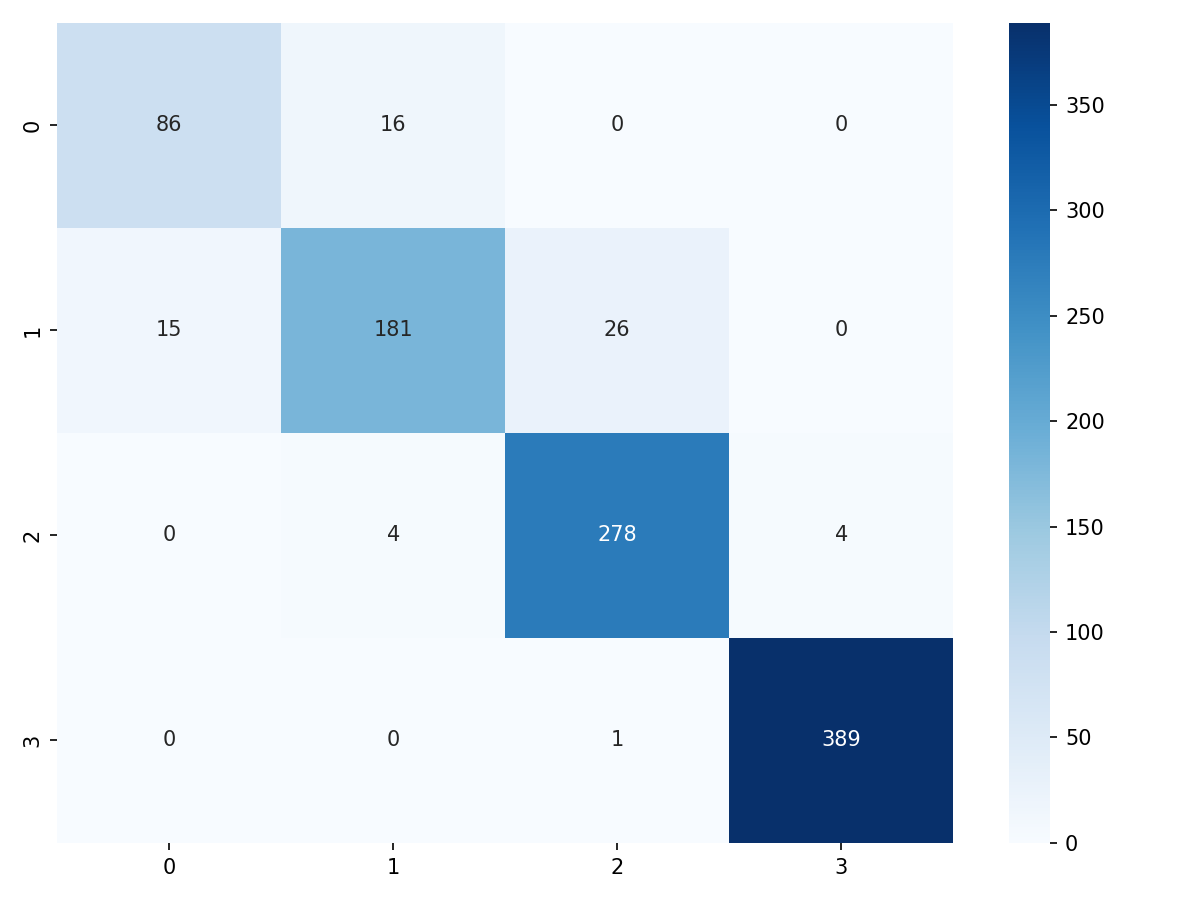
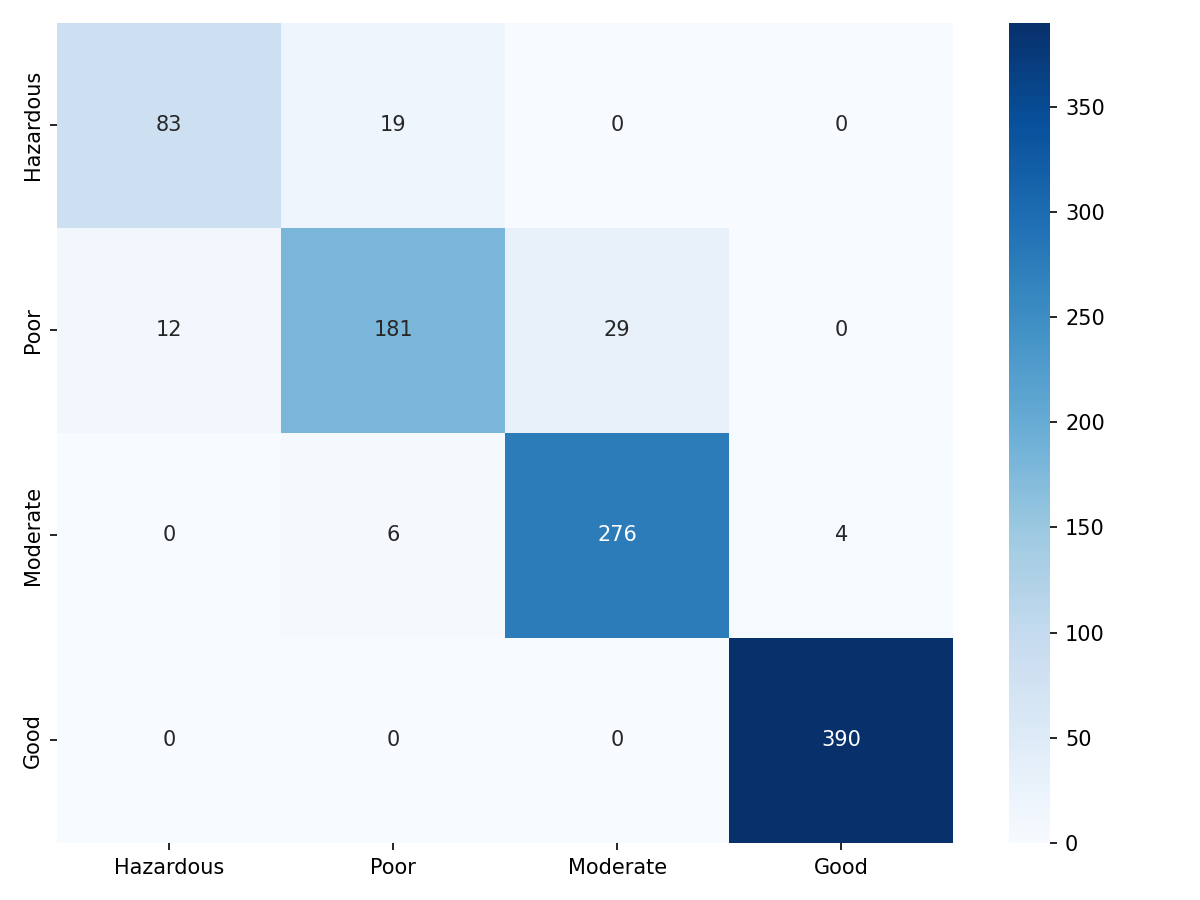
FIX: fixed number of predictors, thus new images and new routine to plot correctly, conf_matrix_plot labels were changed

diff --git a/HW3/lda_routine.py b/HW3/lda_routine.py
@@ -37,7 +37,12 @@ for i in range(3,10):
     #Principal stats:
     print(lda_obj.principal_stats())
 
-lda_obj = lda("data/data_yeojohnson_zscore.csv")
+lda_obj = lda("data/data_yeojohnson_zscore.csv",7)
+fig = lda_obj.corr_matrix_plot();fig.tight_layout();fig.savefig("images/Correlation_matrix.png");plt.close()
+    #Variance explanation by LDA:
+fig = lda_obj.lda_variance_plot();fig.tight_layout();fig.savefig("images/Variance_lda_plot.png");plt.close()
+    #Confusion matrix
+fig = lda_obj.confusion_matrix_plot(); fig.tight_layout();fig.savefig("images/Confusion Matrix.png");plt.close()
 fig = lda_obj.lda_plot();fig.tight_layout(); fig.savefig(f"images/lda_plot.png",dpi=100);plt.close()
 fig = lda_obj.lda_3d_plot(); fig.savefig(f"images/lda_3d_plot.png",bbox_inches='tight');plt.close()
 

diff --git a/HW3/utils/lda_class.py b/HW3/utils/lda_class.py
@@ -71,6 +71,8 @@ class lda:
         fig,axs = plt.subplots(1,1,figsize=(8,6),dpi=150)
         self.cof_matrix= confusion_matrix(self.test_y,predicted)
         sns.heatmap(self.cof_matrix, cmap="Blues",annot=True, fmt='d')
+        axs.xaxis.set_ticklabels(['Hazardous','Poor','Moderate','Good'])
+        axs.yaxis.set_ticklabels(['Hazardous','Poor','Moderate','Good'])
         return fig
     
     def recall(self):
